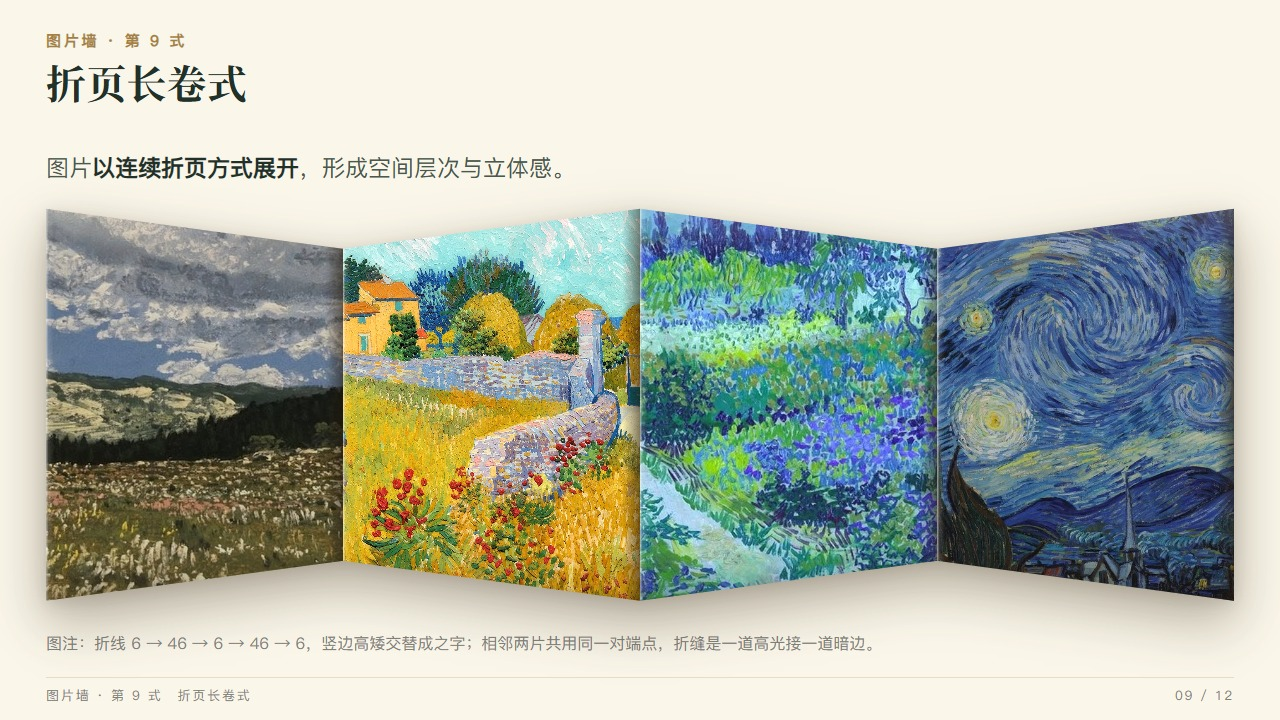
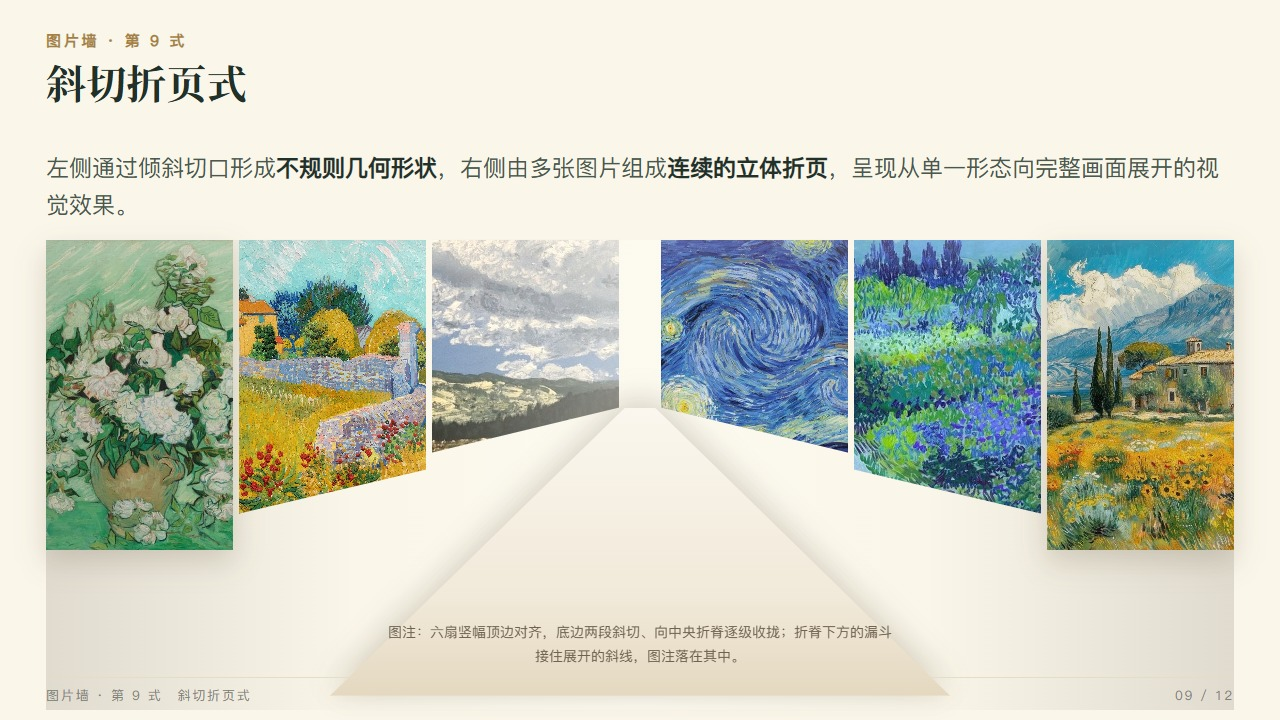
rice-paper-ppt 1.9.1：9 式按参考图重做为斜切折页式（.w-fold）——左右两翼竖幅底边斜切向中脊收拢，中脊下漏斗托图注；废弃旧之字手风琴

diff --git a/rice-paper-ppt/assets/theme.css b/rice-paper-ppt/assets/theme.css
@@ -511,42 +511,58 @@ em { font-style: normal; font-weight: 700; color: var(--green); }
     linear-gradient(to left, rgba(30,21,10,.44) 0, rgba(30,21,10,.10) 55%, rgba(255,250,235,.22) 100%);
 }
 
-/* ── 9 折页长卷式（之字形手风琴）：四片等宽梯形折成 W 形折屏 ────────────────────
-   这一式不用 rotateY：逐片旋转会让相邻两片的公共边错开 3–8px，接缝上出现台阶。
-   做法是把五条折线的上下端点定成同一组数，相邻两片共用同一对端点，梯形裁切自然
-   拼成一条连续折线；纵深交给折角明暗与片间亮度差，不交给形变。
-   轮廓实测自原稿：竖边高度「高—矮—高—矮—高」交替（两端与中缝高、第 1/3 缝矮），
-   是之字形手风琴，不是中间鼓起的拱；落差约为页高 10%，太大两端就塌成窄条。
-   四片等宽——原稿四片边界正好落在四等分点上。 */
+/* ── 9 斜切折页式：左右两翼竖幅，底边向中脊斜切收拢，中脊下方展开漏斗托图注 ──────────
+   这一式不做之字手风琴：立体感来自两段斜切底边向中央折脊逐级收拢——外侧扇全高、
+   中扇斜切、内扇斜得更陡，读出「从单一形态向完整画面展开」。
+   斜切端点实测自参考图（以 310 高计）：第 2/5 片底边 274→230、第 3/4 片 213→168（外→内），
+   漏斗上口贴着内扇内缘（168），向下展开成一梯形，图注落在漏斗里。
+   裁切写在 img 的 clip-path 上，投影挂 .lf 的 filter——clip 会裁掉元素自身的
+   box-shadow / 自身 filter 影子，挂在父级 drop-shadow 才能沿斜边落下。 */
 .w-fold {
-  display: flex; gap: 0; height: 404px; background: none;
-  filter: drop-shadow(0 22px 26px rgba(52,38,20,.34)) drop-shadow(0 4px 8px rgba(52,38,20,.16));
+  position: relative; display: flex; align-items: flex-start; gap: 6px;
+  height: 470px; background: none;
 }
-.w-fold .lf { position: relative; flex: 1 1 0; min-width: 0; }
+.w-fold .lf { position: relative; flex: 1 1 0; min-width: 0; height: 310px;
+  filter: drop-shadow(0 12px 14px rgba(74,58,34,.18)); }
 .w-fold .lf img { width: 100%; height: 100%; object-fit: cover; display: block; }
-/* 折线端点：上缘 6 → 46 → 6 → 46 → 6，下缘 398 → 358 → 398 → 358 → 398。
-   相邻两片共用同一对 y，接缝既没有台阶也没有白缝；奇数片向右收、偶数片向右放，
-   拼出「高—矮—高—矮—高」的之字。上下各留 6px，别顶到 404 的边界。 */
-.w-fold .lf:nth-child(1) { clip-path: polygon(0 6px,  100% 46px, 100% 358px, 0 398px); }
-.w-fold .lf:nth-child(2) { clip-path: polygon(0 46px, 100% 6px,  100% 398px, 0 358px); }
-.w-fold .lf:nth-child(3) { clip-path: polygon(0 6px,  100% 46px, 100% 358px, 0 398px); }
-.w-fold .lf:nth-child(4) { clip-path: polygon(0 46px, 100% 6px,  100% 398px, 0 358px); }
-/* 折缝：每片左端一道 3px 高光（#FFFDF6）、右端一道 6% 宽的暗边，
-   相邻两片一拼就是「亮—暗」的折角；两侧都压暗只会糊成一条黑边，读不出折。 */
-.w-fold .lf::after {
-  content: ""; position: absolute; inset: 0; pointer-events: none;
-  background:
-    linear-gradient(to bottom, rgba(255,251,238,.22) 0, rgba(255,251,238,0) 14%),
-    linear-gradient(to top, rgba(34,24,12,.24) 0, rgba(34,24,12,0) 14%),
-    linear-gradient(to right,
-      rgba(255,253,246,.60) 0, rgba(255,253,246,.14) 0.8%, rgba(255,253,246,0) 2.6%,
-      rgba(34,24,12,0) 94%, rgba(34,24,12,.56) 100%);
+/* 斜切端点：外→内逐级收拢，左右两翼镜像；第 1/6 片齐底不裁 */
+.w-fold .lf:nth-child(2) { clip-path: polygon(0 0, 100% 0, 100% 230px, 0 274px); }
+.w-fold .lf:nth-child(3) { clip-path: polygon(0 0, 100% 0, 100% 168px, 0 213px); }
+.w-fold .lf:nth-child(5) { clip-path: polygon(0 0, 100% 0, 100% 213px, 0 168px); }
+.w-fold .lf:nth-child(6) { clip-path: polygon(0 0, 100% 0, 100% 274px, 0 230px); }
+/* 中脊：两翼之间的折缝，两侧各一道被翼片压出的暗边，中间一线高光读出「脊」 */
+.w-fold .spine { flex: 0 0 30px; height: 310px; pointer-events: none; }
+.w-fold .spine::before {
+  content: ""; position: absolute; inset: 0;
+  background: linear-gradient(to right,
+    rgba(34,24,12,.12) 0, rgba(34,24,12,0) 26%,
+    rgba(255,253,246,.55) 50%,
+    rgba(34,24,12,0) 74%, rgba(34,24,12,.12) 100%);
 }
-/* 片间亮度差：折屏的两片是朝着相反方向转的，不压暗就会读成一整张连续全景图 */
-.w-fold .lf:nth-child(1) img,
-.w-fold .lf:nth-child(4) img { filter: brightness(.84) saturate(.96); }
-.w-fold .lf:nth-child(2) img,
-.w-fold .lf:nth-child(3) img { filter: brightness(1.04); }
+/* 折脊漏斗：内扇斜线向下继续展开成梯形，图注坐在里面；投影向上打在斜切边上。
+   居中用 margin-left 不用 translateX——wallRise 的 transform 会把它整个覆盖掉 */
+.w-fold .funnel {
+  position: absolute; left: 50%; top: 168px; width: 620px; height: 288px;
+  margin-left: -310px; pointer-events: none;
+  filter: drop-shadow(0 -10px 14px rgba(74,58,34,.17)) drop-shadow(0 6px 10px rgba(74,58,34,.08));
+}
+.w-fold .funnel::before {
+  content: ""; position: absolute; inset: 0;
+  clip-path: polygon(calc(50% - 15px) 0, calc(50% + 15px) 0, 100% 100%, 0 100%);
+  background: linear-gradient(180deg, #FBF7EE 0%, #F1E9D9 66%, #E4D8C0 100%);
+}
+.w-fold .funnel .fcap {
+  position: absolute; left: 50%; bottom: 14px; transform: translateX(-50%);
+  width: 82%; text-align: center; font-size: 14px; line-height: 1.65; color: #6F6350;
+}
+/* 顶缘高光与片间亮度差：内扇刚展开、受光最足，往外逐级压暗读出纵深 */
+.w-fold .lf::after {
+  content: ""; position: absolute; left: 0; right: 0; top: 0; height: 14%; pointer-events: none;
+  background: linear-gradient(to bottom, rgba(255,251,238,.20) 0, rgba(255,251,238,0) 100%);
+}
+.w-fold .lf:nth-child(1) img, .w-fold .lf:nth-child(7) img { filter: brightness(.93); }
+.w-fold .lf:nth-child(2) img, .w-fold .lf:nth-child(6) img { filter: brightness(.98); }
+.w-fold .lf:nth-child(3) img, .w-fold .lf:nth-child(5) img { filter: brightness(1.03); }
 
 /* ── 10/11 弧幕连屏式（弧带）：一条相纸带被掰弯 ──────────────────────────────────
    与 9 同法：四片共边裁切，相邻两片共用同一对折线端点，接缝不留台阶——
@@ -718,7 +734,11 @@ em { font-style: normal; font-weight: 700; color: var(--green); }
   .slide.on .w-cyl .cc:nth-child(3) { animation-delay: .12s; }
   .slide.on .w-cyl .cc:nth-child(4) { animation-delay: .18s; }
   .slide.on .w-cyl .cc:nth-child(5) { animation-delay: .24s; }
-  .slide.on .w-fold { animation: wallRise .7s cubic-bezier(.22,.75,.2,1) both; }
+  .slide.on .w-fold .lf { animation: wallRise .6s cubic-bezier(.22,.75,.2,1) both; }
+  .slide.on .w-fold .lf:nth-child(3), .slide.on .w-fold .lf:nth-child(5) { animation-delay: 0s; }
+  .slide.on .w-fold .lf:nth-child(2), .slide.on .w-fold .lf:nth-child(6) { animation-delay: .09s; }
+  .slide.on .w-fold .lf:nth-child(1), .slide.on .w-fold .lf:nth-child(7) { animation-delay: .18s; }
+  .slide.on .w-fold .funnel { animation: wallFade .7s ease-out both; animation-delay: .30s; }
   .slide.on .w-arc .ai { animation: wallFade .55s ease-out both; }
   .slide.on .w-arc .ai:nth-child(2) { animation-delay: .07s; }
   .slide.on .w-arc .ai:nth-child(3) { animation-delay: .14s; }
@@ -742,7 +762,8 @@ em { font-style: normal; font-weight: 700; color: var(--green); }
 .fx-js .slide.on .w-sec .sd img,
 .fx-js .slide.on .w-crest,
 .fx-js .slide.on .w-cyl .cc,
-.fx-js .slide.on .w-fold,
+.fx-js .slide.on .w-fold .lf,
+.fx-js .slide.on .w-fold .funnel,
 .fx-js .slide.on .w-arc img,
 .fx-js .slide.on .w-depth { animation: none; }
 

diff --git a/rice-paper-ppt/examples/wall-fold.html b/rice-paper-ppt/examples/wall-fold.html
@@ -3,7 +3,7 @@
 
 <head>
   <meta charset="utf-8">
-  <title>图片墙 第 9 式 · 折页长卷式 · rice-paper-ppt 示例</title>
+  <title>图片墙 第 9 式 · 斜切折页式 · rice-paper-ppt 示例</title>
   <link rel="stylesheet" href="../assets/theme.css">
 </head>
 
@@ -14,19 +14,22 @@
     <section class="slide">
       <div class="sh">
         <div class="kick">图片墙 · 第 9 式</div>
-        <h1 class="stitle">折页长卷式</h1>
+        <h1 class="stitle">斜切折页式</h1>
       </div>
       <div class="sb">
-        <p class="lead">图片<b>以连续折页方式展开</b>，形成空间层次与立体感。</p>
+        <p class="lead">左侧通过倾斜切口形成<b>不规则几何形状</b>，右侧由多张图片组成<b>连续的立体折页</b>，呈现从单一形态向完整画面展开的视觉效果。</p>
         <div class="wall w-fold">
-          <div class="lf"><img src="img/vg1.jpg" alt=""></div>
+          <div class="lf"><img src="img/vg6.jpg" alt=""></div>
           <div class="lf"><img src="img/vg2.jpg" alt=""></div>
-          <div class="lf"><img src="img/vg3.jpg" alt=""></div>
+          <div class="lf"><img src="img/vg1.jpg" alt=""></div>
+          <div class="spine"></div>
           <div class="lf"><img src="img/vg4.jpg" alt=""></div>
+          <div class="lf"><img src="img/vg3.jpg" alt=""></div>
+          <div class="lf"><img src="img/vg5.jpg" alt=""></div>
+          <div class="funnel"><p class="fcap">图注：六扇竖幅顶边对齐，底边两段斜切、向中央折脊逐级收拢；折脊下方的漏斗接住展开的斜线，图注落在其中。</p></div>
         </div>
-        <div class="figcap">图注：折线 6 → 46 → 6 → 46 → 6，竖边高矮交替成之字；相邻两片共用同一对端点，折缝是一道高光接一道暗边。</div>
       </div>
-      <div class="foot"><span>图片墙 · 第 9 式　折页长卷式</span><span>09 / 12</span></div>
+      <div class="foot"><span>图片墙 · 第 9 式　斜切折页式</span><span>09 / 12</span></div>
     </section>
   </div>
   <script src="../assets/deck.js"></script>

diff --git a/rice-paper-ppt/SKILL.md b/rice-paper-ppt/SKILL.md
@@ -1,7 +1,7 @@
 ---
 name: rice-paper-ppt
-version: 1.9.0
-description: 制作或改版「米纸质感」风格的 HTML 幻灯片时使用：1280×720 单页文件式 deck，暖米纸底 + 深林绿 + 哑光金的中式编辑版式，衬线大标题、投影级字号（正文不低于 20px，表格/代码不低于 18px），自带 theme.css 版式系统、6 页可运行骨架、十二种版式配方（含多图排版的图片墙十二式：1 齐边错落式 / 2 波浪贯通式 / 3 纵深渐进式 / 4 不对称叶片式 / 5 螺旋长卷式——内联 SVG 逐块裁形填图，整页通栏与内容页两种落位 / 6 半圆扇面式——扇骨即放射接缝 / 7 弧形切幅式——上缘左低右高单向抬起 / 8 矩阵网格式——5×3 十五格卷成圆柱面（棱柱面法：translateZ(-R) rotateY(φ) translateZ(R)，五列叠容器中点） / 9 折页长卷式与 10–11 弧幕连屏式（外弧、内弧）——共边梯形不用逐片旋转 / 12 峰谷天际线式——九扇底边对齐、高度对称起伏成峰谷，正中一扇深色主塔拔起压轴（.pk 压暗做全页锚点），曲线用 clip-path path、纵深用 perspective+rotateY、立体靠暖白拼缝、沿轮廓投影与受光差，2 / 4 的曲线按参考图逐列量得再转贝塞尔，4 左端下缘单调收束不留尖钩）、可选增强层 fx.js（无 GSAP 时自动退回纯 CSS，有 GSAP 时接管编排，并留出 WebGL / Canvas 的注册接口）与 Playwright 逐页版式审计脚本；视觉与文案双层规范、文案分语言与信息结构两份：版式层固定页码「当前/总页」、章节首页徽记（印章圆环 + 单色线稿）、视频暂停与进度条控件，文案层按 copywriting-spec.md 约束标题、句式、术语与标点，按 content-structure-spec.md 约束专业术语提炼、信息层级重构、内容压缩、章节封面定位与信息可视化，消除机械化对比句式、口语化引导语、模糊代称和空泛营销表达。适用于汇报、路演、方案宣讲、培训、分享会、文化展陈、课程等任何需要大屏投影且讲究纸感的场合，也适用于把已有同类 HTML 幻灯片按这套规范重构（放大字号、消除空旷、修溢出、重排层级、规范文案语言、给一组图排成整墙）；图片个数一维另有一张速查表——一页放几张图就查 references/image-count-layouts.md（1–10 张与超多图各有首选骨架与适配主题，与十二式「关系母题」互相校验）。触发词：米纸风 PPT、中式学术风幻灯片、纸感 deck、把这份 PPT 改成米纸风格、HTML 幻灯片改版、放大字号、排得专业点、PPT 文案规范化、PPT 文案精炼、信息结构化、专业术语提炼、去掉模糊代称、章节封面精简、多图排版、几张图怎么排、一张图 / 两张图 / N 张图怎么排、这个数量怎么摆、图片墙、图片错落排布、去掉 AI 味。
+version: 1.9.1
+description: 制作或改版「米纸质感」风格的 HTML 幻灯片时使用：1280×720 单页文件式 deck，暖米纸底 + 深林绿 + 哑光金的中式编辑版式，衬线大标题、投影级字号（正文不低于 20px，表格/代码不低于 18px），自带 theme.css 版式系统、6 页可运行骨架、十二种版式配方（含多图排版的图片墙十二式：1 齐边错落式 / 2 波浪贯通式 / 3 纵深渐进式 / 4 不对称叶片式 / 5 螺旋长卷式——内联 SVG 逐块裁形填图，整页通栏与内容页两种落位 / 6 半圆扇面式——扇骨即放射接缝 / 7 弧形切幅式——上缘左低右高单向抬起 / 8 矩阵网格式——5×3 十五格卷成圆柱面（棱柱面法：translateZ(-R) rotateY(φ) translateZ(R)，五列叠容器中点） / 9 斜切折页式——两翼竖幅底边斜切向中脊收拢、中脊下漏斗托图注 / 10–11 弧幕连屏式（外弧、内弧）——共边梯形不用逐片旋转 / 12 峰谷天际线式——九扇底边对齐、高度对称起伏成峰谷，正中一扇深色主塔拔起压轴（.pk 压暗做全页锚点），曲线用 clip-path path、纵深用 perspective+rotateY、立体靠暖白拼缝、沿轮廓投影与受光差，2 / 4 的曲线按参考图逐列量得再转贝塞尔，4 左端下缘单调收束不留尖钩）、可选增强层 fx.js（无 GSAP 时自动退回纯 CSS，有 GSAP 时接管编排，并留出 WebGL / Canvas 的注册接口）与 Playwright 逐页版式审计脚本；视觉与文案双层规范、文案分语言与信息结构两份：版式层固定页码「当前/总页」、章节首页徽记（印章圆环 + 单色线稿）、视频暂停与进度条控件，文案层按 copywriting-spec.md 约束标题、句式、术语与标点，按 content-structure-spec.md 约束专业术语提炼、信息层级重构、内容压缩、章节封面定位与信息可视化，消除机械化对比句式、口语化引导语、模糊代称和空泛营销表达。适用于汇报、路演、方案宣讲、培训、分享会、文化展陈、课程等任何需要大屏投影且讲究纸感的场合，也适用于把已有同类 HTML 幻灯片按这套规范重构（放大字号、消除空旷、修溢出、重排层级、规范文案语言、给一组图排成整墙）；图片个数一维另有一张速查表——一页放几张图就查 references/image-count-layouts.md（1–10 张与超多图各有首选骨架与适配主题，与十二式「关系母题」互相校验）。触发词：米纸风 PPT、中式学术风幻灯片、纸感 deck、把这份 PPT 改成米纸风格、HTML 幻灯片改版、放大字号、排得专业点、PPT 文案规范化、PPT 文案精炼、信息结构化、专业术语提炼、去掉模糊代称、章节封面精简、多图排版、几张图怎么排、一张图 / 两张图 / N 张图怎么排、这个数量怎么摆、图片墙、图片错落排布、去掉 AI 味。
 license: MIT
 ---
 
@@ -113,7 +113,7 @@ cp -r rice-paper-ppt ~/.claude/skills/
 | 分部分 | 章节分隔（深绿章板） | 底色加重 + 超大编号 + 大标题 + 3 条要点 + 一句格言 + **本章徽记** |
 | 讲一个案例 | 图文分栏 | 图占 45–65%，文字只留 3 条结论 |
 | 两案对照 | 双栏并列 | 等宽两列 + 一条 `.bar` 收束 |
-| 并置一组图 | 图片墙十二式 + 个数速查表 | 十二式按关系定母题：1 齐边错落（4–5 张）/ 2 波浪贯通（4）/ 3 纵深渐进（8）/ 4 不对称叶片（4–5）/ 5 螺旋长卷（7 块，通栏与内容页两种落位）/ 6 半圆扇面（4）/ 7 弧形切幅（4）/ 8 矩阵网格（5×3 十五格圆柱面）/ 9 折页长卷（4）/ 10–11 弧幕连屏（4–5，外弧内弧）/ 12 峰谷天际线（9 扇，主塔压轴）；1–3 张与超 10 张不在其区间，按 `references/image-count-layouts.md` 的个数骨架排。文字只留一条标题带。各式 16:9 整页实拍 `examples/wall-stagger|wave|depth|fan|coil|sec|crest|grid|fold|arc|arc-inner|sky.jpg` |
+| 并置一组图 | 图片墙十二式 + 个数速查表 | 十二式按关系定母题：1 齐边错落（4–5 张）/ 2 波浪贯通（4）/ 3 纵深渐进（8）/ 4 不对称叶片（4–5）/ 5 螺旋长卷（7 块，通栏与内容页两种落位）/ 6 半圆扇面（4）/ 7 弧形切幅（4）/ 8 矩阵网格（5×3 十五格圆柱面）/ 9 斜切折页（6，两翼+漏斗）/ 10–11 弧幕连屏（4–5，外弧内弧）/ 12 峰谷天际线（9 扇，主塔压轴）；1–3 张与超 10 张不在其区间，按 `references/image-count-layouts.md` 的个数骨架排。文字只留一条标题带。各式 16:9 整页实拍 `examples/wall-stagger|wave|depth|fan|coil|sec|crest|grid|fold|arc|arc-inner|sky.jpg` |
 | 比参数 / 比方案 | 表格 | 4–7 行；7 行以上用 `.tbl.tight` |
 | 展示一段原文 | 引文框 | `pbox` + 结果图 + 高亮本次新增部分 |
 | 讲步骤 | 横向流程 | 4 节点 + 旁注 + `.bar` |
@@ -125,7 +125,7 @@ cp -r rice-paper-ppt ~/.claude/skills/
 
 多图并置的页面先按「图片墙十二式」选母题：齐边错落式讲并列、波浪贯通式讲连续、纵深渐进式讲层进、
 不对称叶片式讲收束、螺旋长卷式讲一段有起点与终点的行进、半圆扇面式讲聚拢、弧形切幅式讲延伸、
-矩阵网格式讲秩序、折页长卷式讲折页展开、弧幕连屏式（含内弧）讲环幕、峰谷天际线式讲压轴——全页唯一的深色主塔就是视觉锚点。
+矩阵网格式讲秩序、斜切折页式讲两翼展开、弧幕连屏式（含内弧）讲环幕、峰谷天际线式讲压轴——全页唯一的深色主塔就是视觉锚点。
 母题定下后，再用**个数速查表**（`references/image-count-layouts.md`）校验图数与骨架是否匹配——
 1–3 张与超 10 张不在十二式的覆盖区间里，各有独立骨架；两边对不上时改图数（增删图、拆页），不硬缩图片。选型先看内容关系，再看落位：
 2 / 4 / 6 / 7 / 8 / 10 / 11 左右出血铺满画布，3 右缘出血贴边并向左收，5 有两种落位——整页通栏拉满 637×720 三边出血，

diff --git a/rice-paper-ppt/references/page-patterns.md b/rice-paper-ppt/references/page-patterns.md
@@ -201,7 +201,7 @@ SVG 的 presentation attribute 不吃 `var()`，所以别在图标里写 `var(--
 | 6 半圆扇面式 | 四片围绕半圆放射展开，扇骨即接缝 | 聚拢、围绕一个中心 | 4 | 左右出血，舞台 1280×449 | 内弧下空档居中贴条 |
 | 7 弧形切幅式 | 只弯上缘，左低右高单向抬起 | 延伸、推移、地平线 | 4 | 左右出血，下缘贴内容区底 | 左上三角纸面文字块 |
 | 8 矩阵网格式 | 5×3 十五格卷成一段圆柱面 | 秩序、整体、矩阵 | 15（5×3，图不够相邻重复） | 居中，格 202×132 | 图下居中标题带 |
-| 9 折页长卷式 | 四片等宽梯形折成之字折屏 | 层次、展开、折页 | 4 | 内容区，四片等宽 | 图下居中标题带 |
+| 9 斜切折页式 | 左右两翼竖幅，底边斜切向中脊收拢、中脊下漏斗托图注 | 展开、递进、折页 | 6 | 内容区，六扇等宽 | 图注坐进中脊漏斗 |
 | 10 弧幕连屏式 | 竖幅沿外弧连续排列，端片放大 | 环幕、连续、包围 | 4–5 | 左右出血 15px | 图下居中标题带 |
 | 11 弧幕连屏式（内弧） | 同 10 反向，中段鼓起 | 聚焦、收拢 | 4 | 同 10 | 同 10 |
 | 12 峰谷天际线式 | 九扇底边对齐，高度对称起伏，主塔压暗压轴 | 压轴、锚点、收束 | 9（7–9） | 内容区内居中 | 图上导语 + 图下一行图注 |
@@ -441,23 +441,25 @@ SVG 的 presentation attribute 不吃 `var()`，所以别在图标里写 `var(--
   投影一律改用伪元素（`::before`）。
 - 格子必须横（≈202×132，约 3:2）：竖格转动只表现为变窄，看不出卷。
 
-### 9 折页长卷式
+### 9 斜切折页式
 
-> 图片以连续折页方式展开，形成空间层次与立体感。
+> 左侧通过倾斜切口形成不规则几何形状，右侧由多张图片组成连续的立体折页，呈现从单一形态向完整画面展开的视觉效果。
 
 
-**四片等宽梯形折成之字形折屏（手风琴），接缝处上下边严丝合缝。**
+**左右两翼竖幅顶边对齐，底边两段斜切、向中央折脊逐级收拢；折脊下方漏斗展开，图注坐进漏斗。**
 
-- **不用 `rotateY`**：逐片旋转会让相邻两片的公共边错位 3–8px，读成「四张歪卡」。
-  做法是把五条折线的上下端点定成同一组数（上缘 6→46→6→46→6、下缘 398→358→398→358→398），
-  相邻两片共用同一对端点，梯形裁切自然拼成一条连续折线。
-- **轮廓是之字形、不是拱**：竖边高度「高—矮—高—矮—高」交替（两端与中缝高、第 1/3 缝矮），
-  做成中间鼓起的弧就与原稿不符；落差约页高 10%（40px），太大两端塌成窄条。
-- 四片等宽（原稿边界正好落在四等分点上）。
-  `gap:0`，折缝 = 每片左端 3px 高光 + 右端 6% 宽暗边；`background:none`（否则裁剪区外露白带）。
-- **片间亮度差必须有**：外侧两片朝外转、不压暗就读成一整张连续全景图
-  （第 1/4 片 `brightness:.84`、第 2/3 片 `1.04`）。
-- 高度 404；再高会压图注，每加 20px 先量 `.sb`。
+- **不用 `rotateY`、也不做之字手风琴**：立体感全部来自斜切底边向中脊的收拢——
+  外侧扇全高、中扇斜切、内扇斜得更陡，视线从两翼滑向折脊，读出「展开」。
+- **斜切端点**（以扇高 310 计，实测自参考图）：第 1/6 片齐底 310；第 2/5 片底边 274→230（外→内）；
+  第 3/4 片 213→168。左右镜像，斜率一致（每扇落 44–45px），斜率不一折脊就歪。
+- **裁切写在 img 的 `clip-path`，投影挂 `.lf` 的 `filter: drop-shadow`**——
+  clip 会裁掉元素自身的 box-shadow 与自身 filter 影子，挂在父级才能沿斜边落下。
+- **中脊 `.spine`** 宽 30px：两侧各一道被翼片压出的暗边、中间一线高光读出「脊」。
+- **漏斗 `.funnel`**：上口贴折脊（±15px）、向下展开成梯形（620×288），图注坐进漏斗底部；
+  居中用 `margin-left:-310px` **不用 `translateX(-50%)`**——wallRise 的 transform 会把它整个覆盖掉。
+  投影向上打在斜切边上（`drop-shadow(0 -10px …)`），漏斗底色比页面底色深一档才立得住。
+- **片间亮度差**：内扇刚展开、受光最足（`brightness:1.03`），往外逐级压暗（.98 / .93）读出纵深。
+- 高度 470（扇 310 + 漏斗到 456）；再高会压页脚，每加 20px 先量 `.sb` 与 `.foot`。
 
 ### 10 弧幕连屏式 / 11 内弧
 
@@ -493,7 +495,7 @@ SVG 的 presentation attribute 不吃 `var()`，所以别在图标里写 `var(--
 
 ### 十二式通用规则
 
-1. **图数**：1 取 4–5、2 取 4、3 取 8、4 取 4–5、5 取 7 块（5–7 张图，不够就相邻重复）、6 取 4 片、7 取 4 张、8 取 15 格（5×3，图不够相邻重复）、9 取 4 片、10 / 11 取 4–5 片、12 取 9 扇（7–9，高度表按对称重排）。三张以下与十张以上不在十二式的覆盖区间——按**个数速查表**（`image-count-layouts.md`）的骨架排：1–3 张走大图独占 / 对分 / 竖塔三叠，超 10 张走矩阵网格或拆页（`.tbl` 索引加两张代表图）。
+1. **图数**：1 取 4–5、2 取 4、3 取 8、4 取 4–5、5 取 7 块（5–7 张图，不够就相邻重复）、6 取 4 片、7 取 4 张、8 取 15 格（5×3，图不够相邻重复）、9 取 6 扇（左右翼各 3，图不够相邻重复）、10 / 11 取 4–5 片、12 取 9 扇（7–9，高度表按对称重排）。三张以下与十张以上不在十二式的覆盖区间——按**个数速查表**（`image-count-layouts.md`）的骨架排：1–3 张走大图独占 / 对分 / 竖塔三叠，超 10 张走矩阵网格或拆页（`.tbl` 索引加两张代表图）。
 2. **等权**：所有图等宽等高、缝 3px 白纸色，外轮廓只由容器遮罩决定（4 也不再逐张改高度），
    不加各自的圆角、边框。
 3. **允许 `cover` 的唯一场景**：同题材并置、单张不承担唯一证据。人物面部、图内文字、关键细节

diff --git a/rice-paper-ppt/README.md b/rice-paper-ppt/README.md
@@ -30,7 +30,7 @@ serif display type, projection-scaled typography, a writing-style spec, and a Pl
   纵深渐进式讲层进（3，8 张沿垂直轴旋转，右缘贴边、近大远小）、不对称叶片式讲收束（4，一条遮罩裁出左厚、中小、右回升）、
   螺旋长卷式讲一段有起点的历程（5，7 块沿一条带子盘绕，可拉满整页通栏或收进内容页右列）、
   半圆扇面式讲聚拢（6，扇骨即放射接缝）、弧形切幅式讲延伸（7，上缘一条弧左低右高）、
-  矩阵网格式讲秩序（8，5×3 十五格卷成圆柱面）、折页长卷式讲折页展开（9，四片共边梯形）、
+  矩阵网格式讲秩序（8，5×3 十五格卷成圆柱面）、斜切折页式讲两翼展开（9，六扇底边斜切向中脊收拢、中脊下漏斗托图注）、
   弧幕连屏式讲环幕（10，内弧 11 反向聚焦中央）、峰谷天际线式讲压轴（12，九扇底边对齐、
   高度对称起伏、正中深色主塔拔起）。墙内等宽白缝、不逐图配卡；立体感来自暖白拼缝、
   沿轮廓投影、边缘顶亮底暗与尺寸错落，不用发光和玻璃。`theme.css` 已内置十二式、标题带与 0.7s 入场动画，
@@ -65,7 +65,7 @@ serif display type, projection-scaled typography, a writing-style spec, and a Pl
 （或一个 `perspective`）决定外轮廓，墙内等宽、2–3px 暖白缝，投影沿轮廓落下。
 5 式换几何语言：一条内联 SVG 里七块各裁各形、各填各图，白缝靠同一批 path 再描一遍。
 6–11 式是立体曲面一组：扇面（6）从同一个圆心拉出扇骨，切幅（7）只弯上缘，
-网格（8）整面朝观众卷进来，折页（9）与弧幕（10 / 11）用共边梯形拼出连续折面——
+网格（8）整面朝观众卷进来，折页（9）靠斜切底边向中脊收拢，弧幕（10 / 11）用共边梯形拼出连续折面——
 这一组的立体感大头是光（受光差、折缝一亮一暗、贴地影），不只是形变。
 12 又回到平面：九扇竖幅底边对齐排成一行，高度对称起伏成峰谷，戏剧性全在高差与
 正中那扇深色主塔上——主塔是全页唯一的深色块，也是视线落点。
@@ -119,9 +119,9 @@ serif display type, projection-scaled typography, a writing-style spec, and a Pl
 
 <p align="center"><img src="examples/wall-grid.jpg" width="760" alt="08 矩阵网格式：5×3 十五格卷成一段圆柱面，中列正对观众、越往外越窄越暗" /></p>
 
-**09 折页长卷式** — 图片以连续折页方式展开，形成空间层次与立体感。
+**09 斜切折页式** — 左侧通过倾斜切口形成不规则几何形状，右侧由多张图片组成连续的立体折页，呈现从单一形态向完整画面展开的视觉效果。
 
-<p align="center"><img src="examples/wall-fold.jpg" width="760" alt="09 折页长卷式：四片等宽梯形折成之字形折屏，接缝处上下边严丝合缝" /></p>
+<p align="center"><img src="examples/wall-fold.jpg" width="760" alt="09 斜切折页式：左右两翼竖幅顶边对齐，底边斜切向中脊逐级收拢，中脊下方漏斗展开托住图注" /></p>
 
 **10 弧幕连屏式** — 多张竖幅图片沿弧线连续排列，形成环幕视觉效果。
 
@@ -145,7 +145,7 @@ serif display type, projection-scaled typography, a writing-style spec, and a Pl
 | **06 半圆扇面式** | 四片围绕半圆放射展开，扇骨即接缝 | 聚拢、围绕一个中心 | 4 | 扇片 320×449（径向厚 290） | ≈68%（扇片中段取景） |
 | **07 弧形切幅式** | 只弯上缘，左低右高单向抬起 | 延伸、推移、地平线 | 4 | 竖片 320×440 | ≈48% |
 | **08 矩阵网格式** | 5×3 十五格卷成一段圆柱面 | 秩序、整体、矩阵 | 15（5×3） | 202×132，居中 | 几乎不裁（格 3:2） |
-| **09 折页长卷式** | 四片等宽梯形折成之字折屏 | 层次、展开、折页 | 4 | ≈348×404（等宽） | 51% |
+| **09 斜切折页式** | 左右两翼竖幅，底边斜切向中脊收拢、中脊下漏斗托图注 | 展开、递进、折页 | 6 | ≈186×310（等宽） | 51% |
 | **10 弧幕连屏式** | 竖幅沿外弧连续排列，端片放大 | 环幕、连续、包围 | 4–5 | ≈320×404 | 51% |
 | **11 弧幕连屏式（内弧）** | 同 10，弧向反转、中段鼓起 | 聚焦、收拢 | 4 | 同 10 | 51% |
 | **12 峰谷天际线式** | 九扇底边对齐，高度对称起伏，主塔压暗压轴 | 压轴、锚点、收束 | 9（7–9） | 端塔 300 → 谷 158–198，主塔满高 380 | 几乎不裁（竖幅 1:1.4–2.7） |

diff --git a/rice-paper-ppt/references/components.md b/rice-paper-ppt/references/components.md
@@ -289,12 +289,18 @@
   <div class="cc"><img src="assets/h1.jpg" alt=""><img src="assets/h2.jpg" alt=""><img src="assets/h3.jpg" alt=""></div>
 </div>
 
-<!-- 9 折页长卷式：四片等宽共边梯形 .lf，竖边高矮交替成之字（两端与中缝高）；gap:0，折缝=左高光+右暗边 -->
+<!-- 9 斜切折页式：左右两翼竖幅 .lf（中脊 .spine 隔开），底边 img clip-path 斜切向中脊
+     逐级收拢（外→内：齐底 → 274→230 → 213→168，左右镜像）；投影挂 .lf 的 drop-shadow；
+     .funnel 漏斗贴折脊向下展开，图注 .fcap 坐进漏斗（居中用 margin-left，禁 translateX） -->
 <div class="wall w-fold">
   <div class="lf"><img src="assets/i1.jpg" alt=""></div>
   <div class="lf"><img src="assets/i2.jpg" alt=""></div>
   <div class="lf"><img src="assets/i3.jpg" alt=""></div>
-  <div class="lf"><img src="assets/i4.jpg" alt=""></div>
+  <div class="spine"></div>
+  <div class="lf"><img src="assets/i1.jpg" alt=""></div>
+  <div class="lf"><img src="assets/i2.jpg" alt=""></div>
+  <div class="lf"><img src="assets/i3.jpg" alt=""></div>
+  <div class="funnel"><p class="fcap">图注：底边两段斜切、向中央折脊逐级收拢，图注落在展开的漏斗里。</p></div>
 </div>
 
 <!-- 10/11 弧幕连屏式：共边梯形，.ai 必须包住 img；缝靠每片左右各裁 3px，不能用 gap；

diff --git a/rice-paper-ppt/references/image-count-layouts.md b/rice-paper-ppt/references/image-count-layouts.md
@@ -114,7 +114,7 @@
 - 文字：四角或四列各承担一条要点，每条两行以内。
 - 适合：四象限、四季 / 四季度、四要点、四产品、团队成员。
 - 米纸落地：十二式里 4 张的选择最宽——1 齐边错落（并列比较）、
-  6 半圆扇面（聚拢）、7 弧形切幅（延伸）、9 折页长卷（展开）。
+  6 半圆扇面（聚拢）、7 弧形切幅（延伸）、9 斜切折页（展开）。
 - 坑：田字格最稳、一行四栏更紧凑，二选一看图的横竖构图；
   环形四段弧图在米纸风里用 6 式的放射接缝实现，别用竖直等宽缝拼圆环
   （圆心收拢处缝会张成锥形）。
